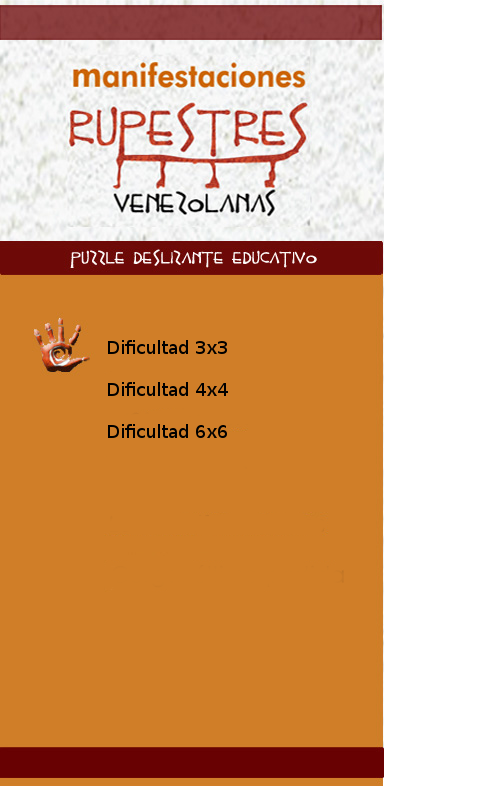
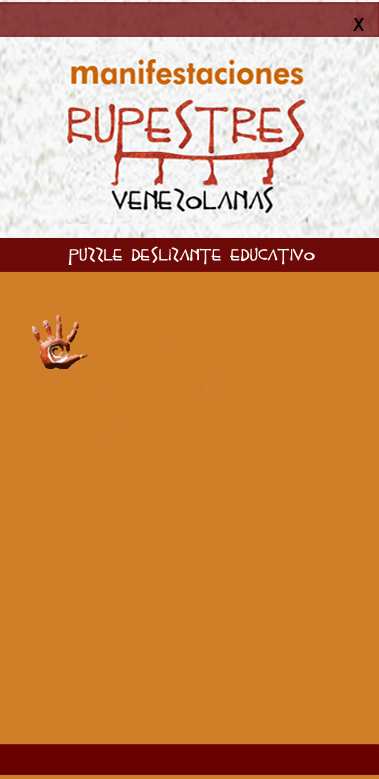
Cambiada la fuente a century gothic. Cambiado el fondo del menú de config y el principal.

diff --git a/www/index.html b/www/index.html
@@ -33,10 +33,10 @@
                       position:absolute; 
                       left: 75%; 
                       top: 75%;"></a>
-            <a onclick="abrirMenuEmergente()" style="display:block; width:30%; height:20%; position:absolute; left: 0; top: 0;"></a>
+            <a onclick="abrirMenuEmergente();cerrarMenuConfiguracion();" style="display:block; width:30%; height:20%; position:absolute; left: 0; top: 0;"></a>
             <a class="area-sprite"
                style="display:block; width:20%; height:20%; position:absolute; left: 80%; top: 0%;"
-               onclick="abrirMenuConfiguracion();"></a>
+               onclick="abrirMenuConfiguracion();cerrarMenuEmergente();"></a>
     </div>
     <div id="vista-presentacion" class="vista" >
             <img src="img/vistas/Presentacion.jpg" alt="icon"
@@ -49,10 +49,10 @@
                       position:absolute; 
                       left: 75%; 
                       top: 80%;"></a>
-            <a onclick="abrirMenuEmergente()" style="display:block; width:30%; height:20%; position:absolute; left: 0; top: 0;"></a>
+            <a onclick="abrirMenuEmergente();cerrarMenuConfiguracion();" style="display:block; width:30%; height:20%; position:absolute; left: 0; top: 0;"></a>
             <a class="area-sprite"
                style="display:block; width:20%; height:20%; position:absolute; left: 80%; top: 0%;"
-               onclick="abrirMenuConfiguracion();"></a>
+               onclick="abrirMenuConfiguracion();cerrarMenuEmergente();"></a>
     </div>
     
     <div id="vista-instrucciones" class="vista" >
@@ -66,10 +66,10 @@
                       position:absolute; 
                       left: 75%; 
                       top: 80%;"></a>
-            <a onclick="abrirMenuEmergente()" style="display:block; width:30%; height:20%; position:absolute; left: 0; top: 0;"></a>
+            <a onclick="abrirMenuEmergente();cerrarMenuConfiguracion();" style="display:block; width:30%; height:20%; position:absolute; left: 0; top: 0;"></a>
             <a class="area-sprite"
                style="display:block; width:20%; height:20%; position:absolute; left: 80%; top: 0%;"
-               onclick="abrirMenuConfiguracion();"></a>
+               onclick="abrirMenuConfiguracion();cerrarMenuEmergente();"></a>
     </div>
     
     
@@ -85,11 +85,11 @@
             
             <a class="area-sprite"
                style="display:block; width:20%; height:10%; position:absolute; left: 0%; top: 0%;"
-               onclick="abrirMenuEmergente();"></a>
+               onclick="abrirMenuEmergente();cerrarMenuConfiguracion();"></a>
             
             <a class="area-sprite"
                style="display:block; width:20%; height:10%; position:absolute; left: 80%; top: 0%;"
-               onclick="abrirMenuConfiguracion();"></a>
+               onclick="abrirMenuConfiguracion();cerrarMenuEmergente();"></a>
             
             <a class="area-sprite" id="tipo-representacion-petroglifo"
                style="display:block; width:56%; height:4%; position:absolute; left: 23%; top: 30%;"
@@ -175,7 +175,7 @@
                
             <a class="area-sprite"
                style="display:block; width:20%; height:10%; position:absolute; left: 0%; top: 0%;"
-               onclick="abrirMenuEmergente();"> </a>
+               onclick="abrirMenuEmergente();cerrarMenuConfiguracion();"> </a>
                
             <a class="area-sprite"
                style="display:block; 
@@ -184,7 +184,7 @@
                       position:absolute; 
                       left: 80%; 
                       top: 0%;"
-               onclick="abrirMenuConfiguracion();"></a>
+               onclick="abrirMenuConfiguracion();cerrarMenuEmergente();"></a>
                
             <a class="area-sprite" id="info-mapa-ampliado"
                style="display:block; width:25%; height:10%; position:absolute; left: 5%; top: 9%;"
@@ -204,10 +204,10 @@
             <img src="img/header.jpg" alt="icon"
                  width="100%" height="100%"
                  style="position:absolute; top: 0; left: 0;" />
-            <a onclick="abrirMenuEmergente()" style="display:block; width:30%; height:100%; position:absolute; left: 0; top: 0;"></a>
+            <a onclick="abrirMenuEmergente();cerrarMenuConfiguracion();" style="display:block; width:30%; height:100%; position:absolute; left: 0; top: 0;"></a>
             <a class="area-sprite"
                style="display:block; width:20%; height:100%; position:absolute; left: 80%; top: 0%;"
-               onclick="abrirMenuConfiguracion();"></a>
+               onclick="abrirMenuConfiguracion();cerrarMenuEmergente();"></a>
                  
         </div>
         
@@ -352,34 +352,34 @@
     
     <div id="vista-menu-emergente">
         
-        <img src="img/vistas/vista_menu_principal.jpg" alt="icon"
-             width="130%" height="95%"
-             style="position:absolute; top: -2%; left: 0;" />
+        <img src="img/vistas/menu_configuracion.png" alt="icon"
+             width="100%" height="100%"
+             style="position:absolute; top: 0%; left: 0%;" />
         
         <!--<a><b>Menú Principal</b></a>-->
-        <a href="javascript:void(0)" class="closebtn" onclick="cerrarMenuEmergente()">&times;</a>
-        <a id="vista-menu-emergente-presentacion" onclick="verPortada()"
+        <a href="javascript:void(0)" class="closebtn" onclick="cerrarMenuEmergente();"></a>
+        <a id="vista-menu-emergente-presentacion" onclick="verPortada();cerrarMenuEmergente();"
            style="top:39%;
-                  left:0%;"></a>
-        <a id="vista-menu-emergente-presentacion" onclick="verPresentacion()"
+                  left:0%;">Inicio</a>
+        <a id="vista-menu-emergente-presentacion" onclick="verPresentacion();cerrarMenuEmergente();"
            style="top:45%;
-                  left:0%;"></a>
-        <a id="vista-menu-emergente-instrucciones" onclick="verInstrucciones()"
+                  left:0%;">Presentación</a>
+        <a id="vista-menu-emergente-instrucciones" onclick="verInstrucciones();cerrarMenuEmergente();"
            style="top:52%;
-                  left:0%;"></a>
+                  left:0%;">Instrucciones</a>
         
-        <a id="vista-menu-emergente-tipo" onclick="mostrarTipoRepresentacion();tomarElTiempoResetear();resetearContadorDeMovidas();"
+        <a id="vista-menu-emergente-tipo" onclick="mostrarTipoRepresentacion();tomarElTiempoResetear();resetearContadorDeMovidas();;cerrarMenuEmergente();"
            style="top:58%;
-                  left:0%;"></a>
-        <a id="vista-menu-emergente-cargar-partida" onclick="cargarUltimoJuegoGuardado()"
+                  left:0%;">Manifestaciones</a>
+        <a id="vista-menu-emergente-cargar-partida" onclick="cargarUltimoJuegoGuardado();cerrarMenuEmergente();"
            style="top:64%;
-                  left:0%;"></a>
-        <a id="vista-menu-emergente-borrar-datos" onclick="borrarEstadoAplicacion()"
+                  left:0%;">Cargar Partida</a>
+        <a id="vista-menu-emergente-borrar-datos" onclick="borrarEstadoAplicacion();cerrarMenuEmergente();"
            style="top:71%;
-                  left:0%;"></a>
-        <a id="vista-menu-emergente-salir" onclick="verPantallaSalir()"
+                  left:0%;">Créditos</a>
+        <a id="vista-menu-emergente-salir" onclick="verPantallaSalir();cerrarMenuEmergente();"
            style="top:78%;
-                  left:0%;"></a>
+                  left:0%;">Salir</a>
     </div>
     
     <!-- Fin Vista Menu Emergente -->
@@ -388,21 +388,21 @@
     
     <div id="vista-menu-configuracion" >
         <img src="img/vistas/menu_configuracion.png" alt="icon"
-             width="130%" height="95%"
-             style="position:absolute; top: -2%; left: 0;" />
-        <a href="javascript:void(0)" class="closebtn" onclick="cerrarMenuConfiguracion()">&times;</a>
-        <a class="area-sprite" href="javascript:seleccionarDimension('3','3');"
+             width="100%" height="100%"
+             style="position:absolute; top: 0%; left: 0%;" />
+        <a href="javascript:void(0)" class="closebtn" onclick="cerrarMenuConfiguracion();"></a>
+        <a class="area-sprite" href="javascript:seleccionarDimension('3','3');cerrarMenuConfiguracion();"
            style="top:37%;
                   left:0%;"
-        ></a>
-        <a class="area-sprite" href="javascript:seleccionarDimension('4','4');"
+        >Dificultad: 3x3</a>
+        <a class="area-sprite" href="javascript:seleccionarDimension('4','4');cerrarMenuConfiguracion();"
            style="top:42%;
                   left:0%;"
-        ></a>
-        <a class="area-sprite" href="javascript:seleccionarDimension('6','6');"
+        >Dificultad: 4x4</a>
+        <a class="area-sprite" href="javascript:seleccionarDimension('6','6');cerrarMenuConfiguracion();"
            style="top:47%;
                   left:0%;"
-        ></a>
+        >Dificultad: 6x6</a>
     </div>
     
     <!-- Fin Vista Menu Configuracion -->

diff --git a/www/css/estilo.css b/www/css/estilo.css
@@ -11,6 +11,7 @@
 *{margin: 0;padding: 0}
 
 html, body {
+    font-family: 'Century Gothic', CenturyGothic, AppleGothic, sans-serif;
     background: #FFB38C;
     background-image:url("../img/Fondo---Textura.png");
     color: #961907;
@@ -27,7 +28,7 @@ html, body {
 
 
 header p{
-    font-family: Arial;
+    font-family: 'Century Gothic', CenturyGothic, AppleGothic, sans-serif;
     font-size: 20px;
     margin: 15px auto;}
 
@@ -79,7 +80,8 @@ header p{
     z-index: 2;
 }
 #vista-menu-emergente a {
-    padding: 8px 8px 8px 32px;
+    margin-left: 25%; 
+    margin-top: 15%;
     text-decoration: none;
     font-size: 25px;
     color: #111111;
@@ -88,11 +90,11 @@ header p{
 }
 
 #vista-menu-emergente .closebtn {
+    margin:0%;
+    padding:0%;
     position: absolute;
     top: 0;
-    right: 25px;
     font-size: 36px;
-    margin-left: 50px;
 }
 
 /*Vista del Menu de Configuracion*/
@@ -111,7 +113,6 @@ header p{
 }
 
 #vista-menu-configuracion a {
-    padding: 0px;
     width: 100%;
     height: 5%;
     display:block;
@@ -120,7 +121,8 @@ header p{
 }
 
 #vista-menu-configuracion a {
-    padding: 8px 8px 8px 32px;
+    margin-left: 25%; 
+    margin-top: 15%;
     text-decoration: none;
     font-size: 25px;
     color: #111111;
@@ -130,10 +132,11 @@ header p{
 
 #vista-menu-configuracion .closebtn {
     position: absolute;
+    margin:0%;
+    padding:0%;
     top: 0;
-    right: 25px;
     font-size: 36px;
-    margin-left: 50px;
+    width: 100%;
 }
 
 /*Fin: Código tomado de http://www.w3schools.com/howto/howto_js_sidenav.asp*/
@@ -156,7 +159,6 @@ header p{
     font-size: 150%;
     
 }
-
 
 #vista-instrucciones {
     height: 100%; 
